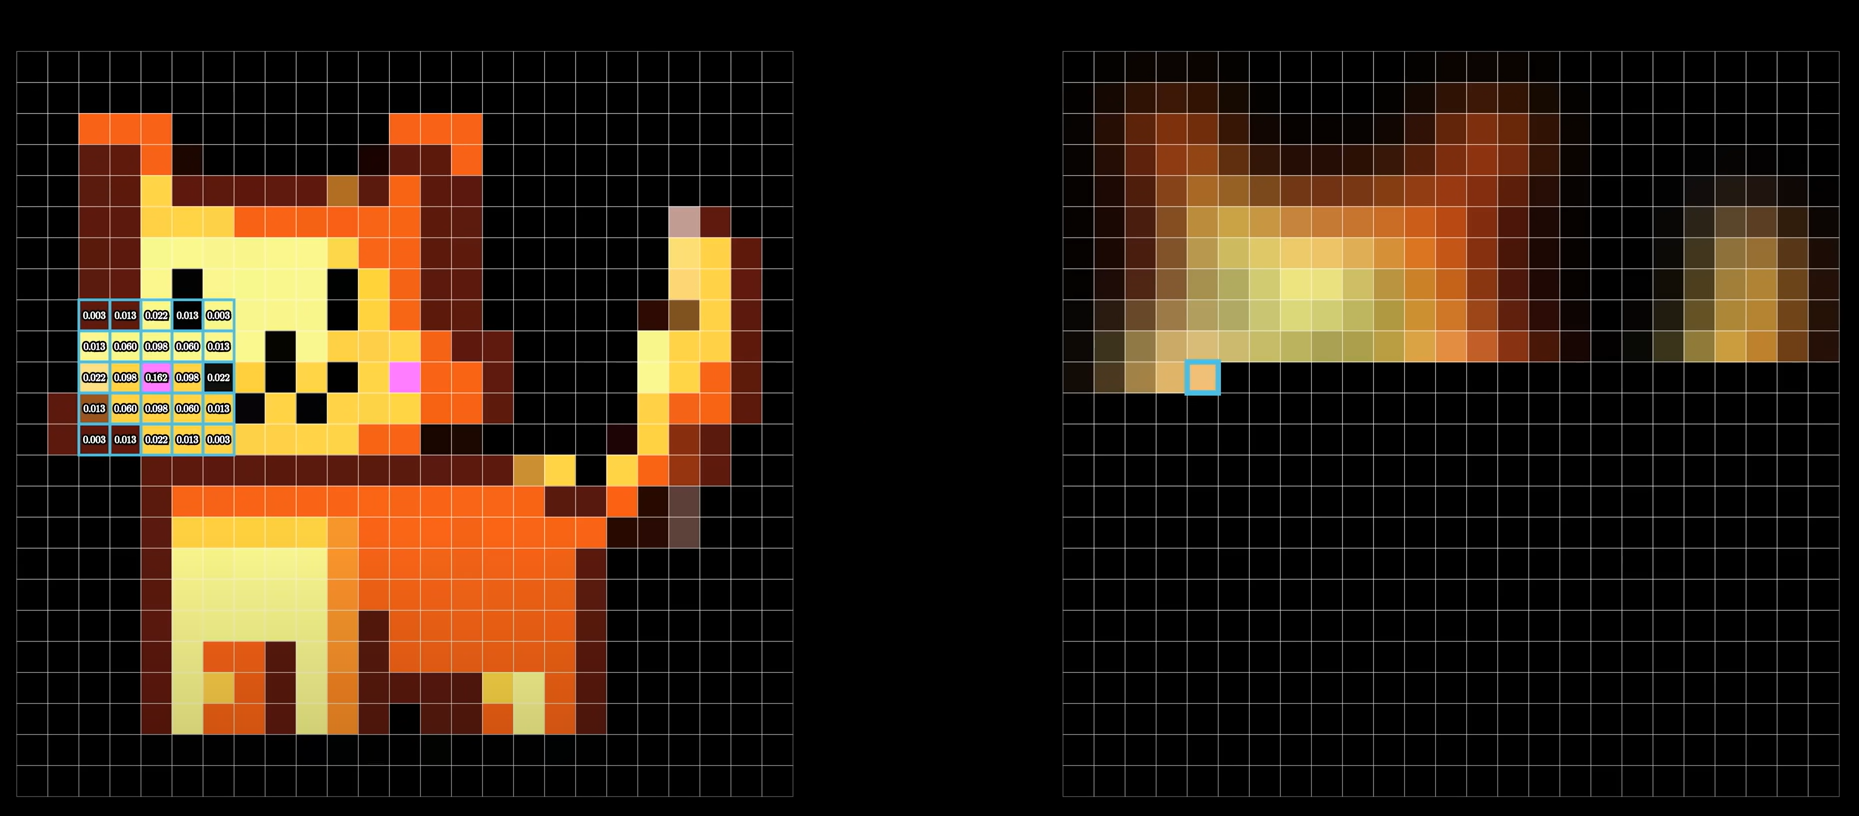
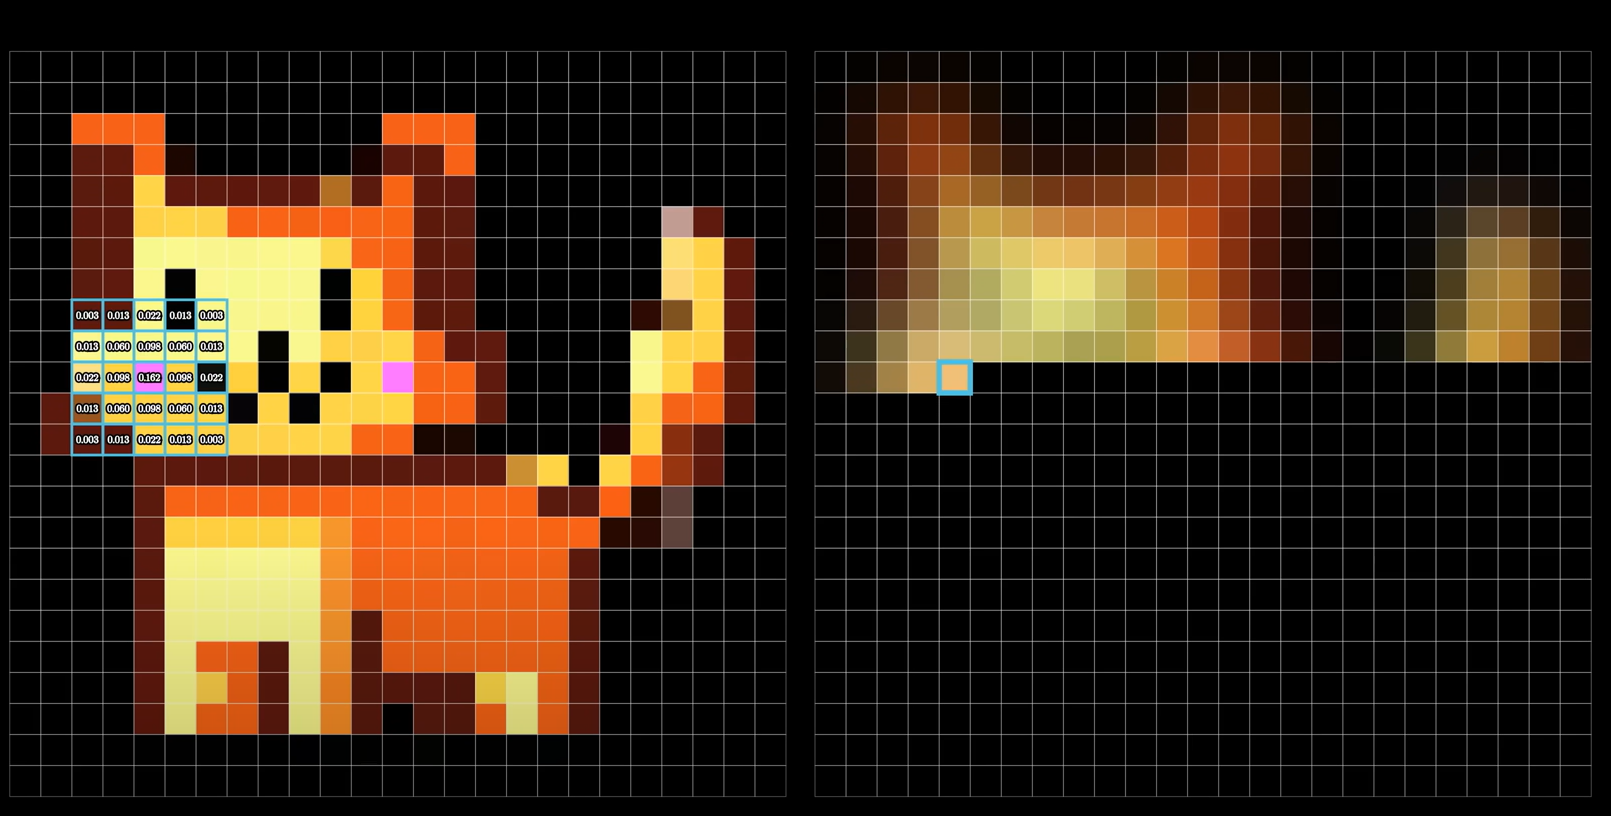
.

diff --git a/_pages/about.md b/_pages/about.md
@@ -16,8 +16,8 @@ I am driven by a deep interest in mathematics, statistics, and model development
 My current research interests lie in convolutional neural networks and classical reinforcement learning methods.
 
 <div style="display: flex;">
-  <img src="/images/Neural_Network.png" alt="Image 2" style="width: 20.15%; border: 2px solid white; margin-right: 2px;">
-  <img src="/images/Convolution.png" alt="Image 1" style="width: 79.85%; border: 2px solid white;">
+  <img src="/images/Neural_Network.png" alt="Image 2" style="width: 25%; border: 2px solid white; margin-right: 2px;">
+  <img src="/images/Convolution.png" alt="Image 1" style="width: 75%; border: 2px solid white;">
 </div>
 
 <h2> Skills & Certifications </h2>
